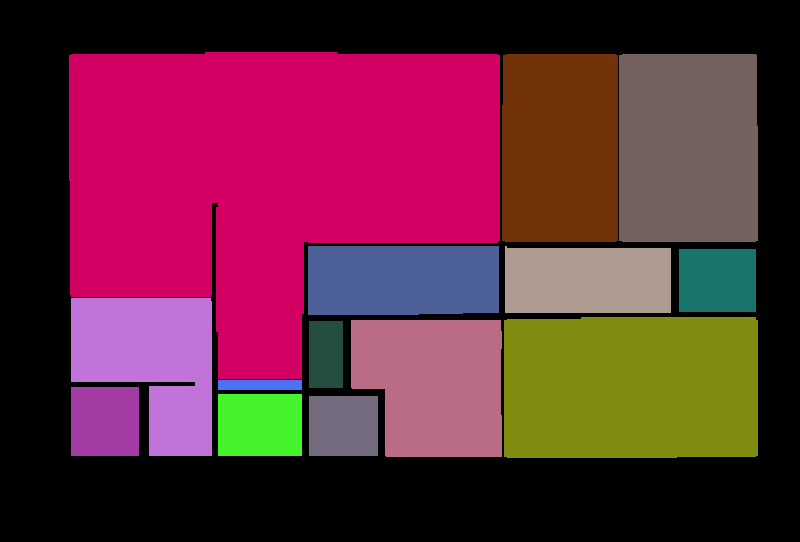
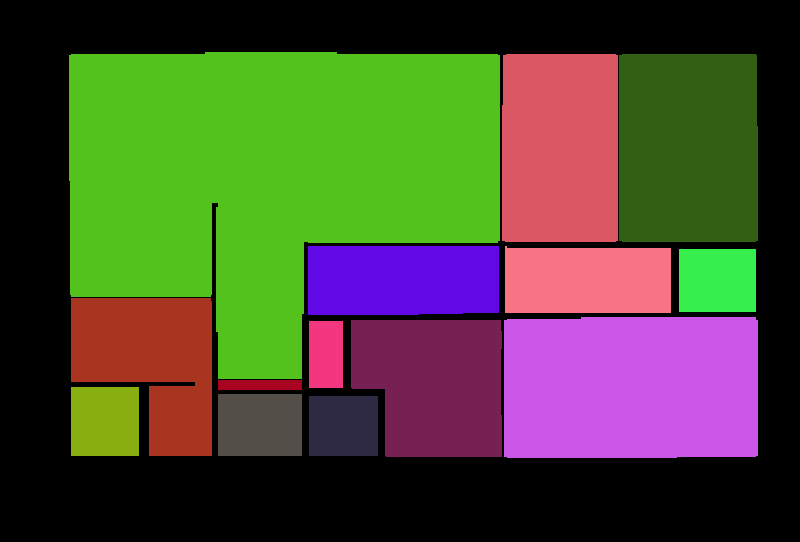
WIP: Room detection (5)

diff --git a/lab/room_detection01.py b/lab/room_detection01.py
@@ -49,7 +49,8 @@ def find_rooms(img, noise_removal_threshold=25, corners_threshold=0.1, room_clos
       if x2[0] - x1[0] < room_closing_max_length:
         color = 0
         # print(f'x1: {x1}, x2: {x2}')
-        cv2.line(img, (int(x1), int(y)), (int(x2), int(y)), color, 1)
+        # print(f'\t\tx1[0]: {x1[0]}, x2[0]: {x2[0]}')
+        cv2.line(img, (int(x1[0]), int(y)), (int(x2[0]), int(y)), color, 1)
 
   for x,col in enumerate(corners.T):
     y_same_x = np.argwhere(col)
@@ -57,7 +58,7 @@ def find_rooms(img, noise_removal_threshold=25, corners_threshold=0.1, room_clos
       if y2[0] - y1[0] < room_closing_max_length:
         color = 0
         # print(f'y1: {y1}, y2: {y2}')
-        cv2.line(img, (int(x), int(y1)), (int(x), int(y2)), color, 1)
+        cv2.line(img, (int(x), int(y1[0])), (int(x), int(y2[0])), color, 1)
 
   # Mark the outside of the house as black
   contours, _ = cv2.findContours(~img, cv2.RETR_EXTERNAL, cv2.CHAIN_APPROX_SIMPLE)
@@ -80,6 +81,7 @@ def find_rooms(img, noise_removal_threshold=25, corners_threshold=0.1, room_clos
       rooms.append(component)
       color = np.random.randint(0, 255, size=3)
     img[component] = color
+  # print(f'Rooms: {rooms}')
 
   # cv2.imshow("Processed", img)
   cv2.imwrite("room_detection_output.png", img)
